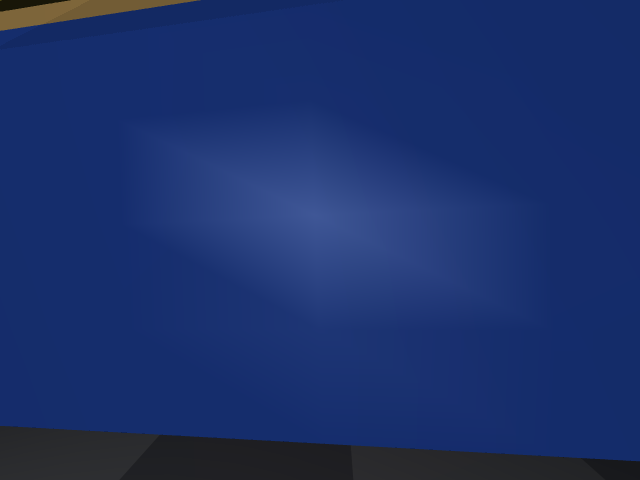
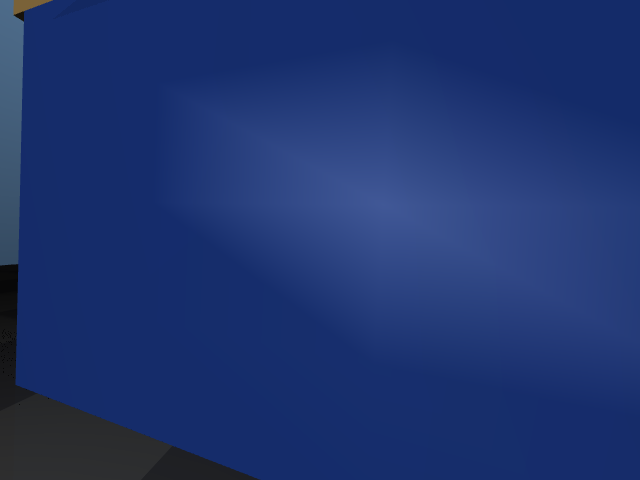
Soft walk-yaw reacquire when the backsplash goes dim (#26)
* Add a yaw-only reacquire when the backsplash goes dim.

If yellow falls below 0.015 while the kitchen is still in frame, vx=0
yaws toward the last bias for up to 2 s. Half-cap forward resumes only
if yellow returns centered. This room run stops instead: end x +1.031 m,
remaining 0.283 m, min up_z 0.930, settled yellow 0. Arrival stays false.
The plant file is untouched.

* Document the reacquire exception on the Prefer FAIL list.

A dim backsplash can take a yaw-only try. The world-x stop is the 1.10 m budget.

* Reacquire with half-cap walk-yaw instead of vx=0.

vx=0 yaw does not change heading on this plant. When the backsplash
goes dim with the kitchen still in frame, keep vel(+0.028, yaw trim)
for at most two short tries, then Prefer FAIL if the blob is lost again.

---------

Changed region(s): [[0.2188, 0.9062, 1.0, 1.0], [0.0, 0.0, 0.3125, 0.9062], [0.8438, 0.4375, 0.875, 0.4688]]

diff --git a/scripts/find_kitchen.py b/scripts/find_kitchen.py
@@ -19,9 +19,15 @@ adds a yaw trim scaled by the bias. Full-cap slices and short slices with
 stand pauses between them are not this path: the first crossed up_z 0.90
 near +0.39 m, and the pauses never got past ~0.1 m. The up_z bar stays
 0.90. The 1.2 s hop stays in --self-test at the full forward cap. The
-world-x budget is 1.10 m, a stop, not a goal pose. Arrival is claimed only when
-the backsplash fills at least half the frame and the torso is within 0.25 m
-of the kitchen geom. Otherwise the summary reports end x and the remaining
+world-x budget is 1.10 m, a stop, not a goal pose. If the yellow fraction
+falls below 0.015 while the kitchen body is still in frame, up to two
+soft walk-yaw tries (vel(+0.028, trim toward the last bias), 2 s each)
+may run. vx=0 yaw does not change heading on this plant, so it is not
+the reacquire. Normal half-cap steering resumes only if yellow returns
+to at least 0.015 and the score is usable. Otherwise that is a Prefer
+FAIL and no further vel. Arrival is claimed only when the backsplash
+fills at least half the frame and the torso is within 0.25 m of the
+kitchen geom. Otherwise the summary reports end x and the remaining
 gap and does not say arrived.
 
 The visible signal under this lighting is the yellow backsplash. The wood
@@ -106,6 +112,12 @@ ARRIVAL_YELLOW_FRAC = 0.50
 ARRIVAL_REMAINING_M = 0.25
 PERCEPT_S = 0.40
 BUDGET_STOP = "burst budget reached; stop"
+# Dim backsplash, kitchen body still in frame. Half-cap walk-yaw toward the
+# last bias. vx=0 yaw does not change heading here, so it is not used.
+# Not a search: two tries, 2 s each, then stop if yellow is still not usable.
+REACQUIRE_S = 2.0
+REACQUIRE_SLICE_S = 0.40
+MAX_REACQUIRE = 2
 # Stand kit_cam measures yellow fraction ~0.039 and bias ~-0.014.
 # Empty floor and a yaw that hides the kitchen measure 0.
 MIN_YELLOW_FRAC = 0.015
@@ -142,6 +154,9 @@ UNKNOWN_LINE = "refused: not a find-kitchen phrase"
 EMPTY_PHRASE_LINE = "refused: empty phrase"
 NOT_IN_FRAME_LINE = "Prefer FAIL: kitchen is not in the kit_cam frame; no motion"
 NO_PIXELS_LINE = "Prefer FAIL: kit_cam pixels do not show the backsplash; no motion"
+REACQUIRE_LOST = (
+    "Prefer FAIL: soft walk-yaw reacquire lost the backsplash; no further vel"
+)
 AMBIGUOUS_LINE = "Prefer FAIL: kitchen blob is ambiguous; no motion"
 BLOCKED_LINE = "Prefer FAIL: backsplash fills the lower center; no forward"
 HONESTY = (
@@ -242,6 +257,7 @@ class Approach:
     arrival: bool
     forward_bursts: int
     yaw_corrections: int
+    reacquires: int
 
 
 def _md5(path: Path) -> str:
@@ -600,6 +616,41 @@ def trim_yaw(bias: float) -> float:
     return yaw
 
 
+def can_reacquire(score: KitchenScore) -> bool:
+    """Dim yellow while the kitchen body is still in frame. Not a split blob."""
+    return (
+        score.kitchen_in_frame
+        and score.decision == "fail"
+        and score.yellow_frac < MIN_YELLOW_FRAC
+        and score.line == NO_PIXELS_LINE
+    )
+
+
+def reacquire_yaw(bias: float) -> float:
+    """Yaw trim toward the last known side. Zero if that side is centered."""
+    return trim_yaw(bias)
+
+
+def reacquire_command(bias: float) -> tuple[float, float]:
+    """Soft walk-yaw. Same half-cap forward as the approach, plus the trim."""
+    return (SOFT_VX, reacquire_yaw(bias))
+
+
+def yellow_usable(score: KitchenScore) -> bool:
+    """Yellow is back at the visible bar and the normal steer can use it."""
+    return (
+        score.kitchen_in_frame
+        and score.yellow_frac >= MIN_YELLOW_FRAC
+        and score.decision in ("forward", "yaw_left", "yaw_right")
+    )
+
+
+def _remember_bias(score: KitchenScore, last_bias: float) -> float:
+    if score.centroid_u is not None:
+        return score.bias
+    return last_bias
+
+
 def correction_command(score: KitchenScore) -> tuple[float, float] | None:
     """Approach slice: forward cap, plus a bias trim when the blob is off center."""
     if score.decision == "fail":
@@ -731,6 +782,7 @@ def _hold_vel(
     stop_when_centered: bool = False,
     progress_x0: float | None = None,
     progress_cap_m: float | None = None,
+    allow_dim: bool = False,
 ) -> str | None:
     """Resend one vel at 10 Hz. Stop early if the kitchen leaves the frame.
 
@@ -767,7 +819,11 @@ def _hold_vel(
             last_look = now
             live = score_frame(session.model, session.data, cam.grab(session.data))
             if live.decision == "fail":
-                return live.line
+                dim = allow_dim and can_reacquire(live)
+                if not dim:
+                    return live.line
+            elif allow_dim and yellow_usable(live):
+                return None
             if stop_when_centered and live.decision == "forward":
                 return None
             if stop_when_centered and (
@@ -890,12 +946,68 @@ def _gap(model: mj.MjModel, data: mj.MjData) -> tuple[float, float]:
     return found
 
 
+def _reacquire(
+    session: steer_walk.SteerSession,
+    cam: KitCam,
+    sent: list[SentVel],
+    score: KitchenScore,
+    last_bias: float,
+    x0: float,
+) -> tuple[KitchenScore, str | None]:
+    """Half-cap walk-yaw toward the last bias until yellow is usable or the budget ends.
+
+    Success resumes the normal approach. A lost blob, a kitchen that leaves
+    the frame, up_z under 0.90, or the end of the 2 s budget is a Prefer FAIL.
+    vx=0 is not used: it does not change heading on this plant.
+    """
+    deadline = float(session.data.time) + REACQUIRE_S
+    while float(session.data.time) < deadline - 1e-9:
+        up_z = session.samples[-1].up_z if session.samples else 1.0
+        if up_z < UP_Z_ABORT:
+            return score, f"Prefer FAIL: up_z {up_z:.3f} during reacquire; stop"
+        if not score.kitchen_in_frame:
+            return score, "Prefer FAIL: kitchen left the frame during reacquire; no further vel"
+        if yellow_usable(score):
+            return score, None
+        if score.decision == "fail" and not can_reacquire(score):
+            return score, score.line
+        bias = score.bias if score.centroid_u is not None else last_bias
+        command = reacquire_command(bias)
+        slice_s = min(REACQUIRE_SLICE_S, deadline - float(session.data.time))
+        if slice_s <= 1e-6:
+            break
+        abort = _hold_vel(
+            session, cam, command[0], command[1], slice_s, sent,
+            stop_when_centered=False,
+            progress_x0=x0,
+            progress_cap_m=PROGRESS_STOP_M,
+            allow_dim=True,
+        )
+        score = score_frame(session.model, session.data, cam.grab(session.data))
+        if yellow_usable(score):
+            return score, None
+        if abort == BUDGET_STOP:
+            return score, abort
+        if abort and (
+            abort.startswith("fault:")
+            or "up_z" in abort
+            or not score.kitchen_in_frame
+        ):
+            return score, abort
+        if abort and score.decision == "fail" and not can_reacquire(score):
+            return score, abort
+    return score, (
+        "Prefer FAIL: walk-yaw reacquire budget exhausted; "
+        "yellow did not return; no further vel"
+    )
+
+
 def run_approach(session: steer_walk.SteerSession, cam: KitCam) -> Approach:
     """Half-cap slices while the backsplash stays valid, with a yaw trim if it drifts.
 
-    The gait stays in move across a slice boundary. A stand between slices
-    resets the velocity slew and does not advance. Stop is the budget, or a
-    Prefer FAIL. up_z under 0.90 stops. That bar is not lowered.
+    A dim yellow with the kitchen still in frame gets a short half-cap walk-yaw.
+    The gait stays in move across a forward slice. Stop is the budget, a failed
+    reacquire, or another Prefer FAIL. up_z under 0.90 stops. That bar is not lowered.
     """
     _hold_stand(session, STAND_S)
     before = cam.grab(session.data)
@@ -907,12 +1019,14 @@ def run_approach(session: steer_walk.SteerSession, cam: KitCam) -> Approach:
     mid_score = stand_score
     forward_bursts = 0
     yaw_corrections = 0
+    reacquires = 0
+    last_bias = stand_score.bias
     note = stand_score.line
     stop_kind: BurstKind = "blob"
     if stand_score.decision == "fail":
         return _approach_result(
             session, cam, before, before, stand_score, stand_score, sent, note,
-            stop_kind, x0, forward_bursts, yaw_corrections, False,
+            stop_kind, x0, forward_bursts, yaw_corrections, False, reacquires,
         )
     while True:
         dx = float(session.data.qpos[0]) - x0
@@ -927,7 +1041,23 @@ def run_approach(session: steer_walk.SteerSession, cam: KitCam) -> Approach:
             remaining_m=remaining,
         )
         if choice.action == "stop":
-            note = choice.line
+            if (
+                choice.kind == "blob"
+                and can_reacquire(score)
+                and reacquires < MAX_REACQUIRE
+            ):
+                reacquires += 1
+                score, fail = _reacquire(session, cam, sent, score, last_bias, x0)
+                last_bias = _remember_bias(score, last_bias)
+                if fail:
+                    note = fail
+                    stop_kind = _abort_kind(fail)
+                    break
+                continue
+            if choice.kind == "blob" and can_reacquire(score) and reacquires >= MAX_REACQUIRE:
+                note = REACQUIRE_LOST
+            else:
+                note = choice.line
             stop_kind = choice.kind
             break
         command = correction_command(score)
@@ -948,12 +1078,25 @@ def run_approach(session: steer_walk.SteerSession, cam: KitCam) -> Approach:
             progress_cap_m=PROGRESS_STOP_M,
         )
         score = score_frame(session.model, session.data, cam.grab(session.data))
+        last_bias = _remember_bias(score, last_bias)
         moved = float(session.data.qpos[0]) - x0
         if mid_image is None and moved >= (PROGRESS_STOP_M * 0.5):
             mid_image = cam.grab(session.data)
             mid_score = score
+        if abort and can_reacquire(score) and reacquires < MAX_REACQUIRE:
+            reacquires += 1
+            score, fail = _reacquire(session, cam, sent, score, last_bias, x0)
+            last_bias = _remember_bias(score, last_bias)
+            if fail:
+                note = fail
+                stop_kind = _abort_kind(fail)
+                break
+            continue
         if abort:
-            note = abort
+            if can_reacquire(score) and reacquires >= MAX_REACQUIRE:
+                note = REACQUIRE_LOST
+            else:
+                note = abort
             stop_kind = _abort_kind(abort)
             break
     if mid_image is None and (forward_bursts + yaw_corrections) > 1:
@@ -965,6 +1108,7 @@ def run_approach(session: steer_walk.SteerSession, cam: KitCam) -> Approach:
     return _approach_result(
         session, cam, before, mid_image, stand_score, mid_score, sent, note,
         stop_kind, x0, forward_bursts, yaw_corrections, stop_kind == "arrival",
+        reacquires,
     )
 
 
@@ -982,6 +1126,7 @@ def _approach_result(
     forward_bursts: int,
     yaw_corrections: int,
     arrival_candidate: bool,
+    reacquires: int,
 ) -> Approach:
     session.bus.stop(float(session.data.time))
     _hold_stand(session, SETTLE_S)
@@ -1031,6 +1176,7 @@ def _approach_result(
         arrival=arrival,
         forward_bursts=forward_bursts,
         yaw_corrections=yaw_corrections,
+        reacquires=reacquires,
     )
 
 
@@ -1187,6 +1333,30 @@ def test_approach_policy() -> list[str]:
         forward_bursts=1, remaining_m=1.00,
     )
     _expect(blob.action == "stop" and blob.kind == "blob", f"blob {blob}", failures)
+    dim = KitchenScore(
+        decision="fail",
+        reason="backsplash fraction below the visible bar",
+        line=NO_PIXELS_LINE,
+        needs_map=False,
+        bias=-0.80,
+        yellow_frac=0.004,
+        centroid_u=35.0,
+        centroid_v=40.0,
+        kitchen_in_frame=True,
+    )
+    _expect(can_reacquire(dim), "dim in-frame blob should reacquire", failures)
+    _expect(not can_reacquire(lost), "empty fail is not a reacquire", failures)
+    _expect(reacquire_yaw(-0.80) > 0.0, "left bias yaws left", failures)
+    _expect(reacquire_yaw(0.80) < 0.0, "right bias yaws right", failures)
+    _expect(reacquire_yaw(0.0) == 0.0, "centered dim has no yaw side", failures)
+    left_cmd = reacquire_command(-0.80)
+    _expect(
+        abs(left_cmd[0] - SOFT_VX) < 1e-9 and left_cmd[1] > 0.0,
+        f"reacquire is half-cap walk-yaw {left_cmd}",
+        failures,
+    )
+    _expect(yellow_usable(centered), "centered yellow is usable", failures)
+    _expect(not yellow_usable(dim), "dim yellow is not usable", failures)
     # Half the frame but still far: not arrival, keep steering.
     far_fill = approach_choice(
         full, dx_m=0.20, up_z=0.97, yaw_corrections=0,
@@ -1552,6 +1722,7 @@ def run_phrase(phrase: str, scene: SceneName) -> int:
         "note": approach.note,
         "forward_bursts": approach.forward_bursts,
         "yaw_corrections": approach.yaw_corrections,
+        "reacquires": approach.reacquires,
         "x0_m": approach.x0_m,
         "end_x_m": approach.end_x_m,
         "end_y_m": approach.end_y_m,
@@ -1589,6 +1760,7 @@ def run_phrase(phrase: str, scene: SceneName) -> int:
     print(
         f"[find] stop {approach.stop_kind} bursts {approach.forward_bursts} "
         f"yaw_corrections {approach.yaw_corrections} "
+        f"reacquires {approach.reacquires} "
         f"end mode {approach.end_mode} min_up_z {approach.min_up_z:.3f} "
         f"dx {approach.dx_m:+.3f} m end x {approach.end_x_m:+.3f} m "
         f"remaining {approach.remaining_m:.3f} m "

diff --git a/docs/FIND_KITCHEN.md b/docs/FIND_KITCHEN.md
@@ -40,28 +40,31 @@ The `up_z` Prefer FAIL bar stays **0.90**. It is not lowered. A full-cap slice r
 
 Half the forward cap, with no stand between slices, is the duty that stayed upright. At a 0.60 m world-x budget that duty stopped on the budget: end x +0.610 m, Δx +0.608 m, min up_z 0.989, remaining 0.705 m, yellow fraction 0.131, arrival false.
 
-The world-x budget on this draft is **1.10 m**. That is still a stop, not a counter pose. The `up_z` bar, the half-cap command, and both arrival bars are unchanged. The 1.10 m stop was not reached.
+The world-x budget on this draft is **1.10 m**. That is still a stop, not a counter pose. The `up_z` bar, the half-cap command, and both arrival bars are unchanged.
+
+Without a reacquire, the same half-cap walk stopped at end x +0.938 m when the yellow fraction fell to 0.004 with the kitchen body still in frame (remaining 0.377 m, min up_z 0.981). `vx = 0` yaw does not change heading on this plant, so a yaw-only reacquire is not used. This draft instead keeps half-cap `vel(+0.028, yaw trim)` toward the last bias for at most two tries of 2.0 s. The normal approach resumes only if yellow returns to at least 0.015 and the score is usable (`forward`, `yaw_left`, or `yaw_right`). A blob that stays lost, a kitchen that leaves the frame, `up_z` under 0.90, or the end of that budget is Prefer FAIL and sends no further `vel`.
 
 Measured phrase, "go to the kitchen", room scene, after stand:
 
 | | |
 |--|--|
-| Stop | Prefer FAIL: yellow fraction fell to 0.004, below 0.015. The kitchen body still projects into the frame. The backsplash does not. No further `vel`. |
-| End x | **+0.938 m** (start x +0.002 m, Δx **+0.936 m**) |
-| End y, yaw | +0.014 m, +0.083 rad |
-| min up_z | **0.981** (bar 0.90, not crossed) |
-| Remaining | **0.377 m** from the torso to the kitchen geom (near face x = 1.315 m) |
-| Final blob | yellow fraction **0.004**, bias −0.889, left edge |
+| Stop | Prefer FAIL, `stop_kind` blob. Two soft walk-yaw tries. Yellow came back above 0.015 and the normal half-cap loop resumed, then the blob was lost again. The two-try budget blocked a third try. No further `vel`. |
+| End x | **+1.024 m** (start x +0.002 m, Δx **+1.022 m**) |
+| End y, yaw | +0.052 m, +0.229 rad |
+| min up_z | **0.980** (bar 0.90, not crossed) |
+| Remaining | **0.291 m** from the torso to the kitchen geom (near face x = 1.315 m) |
+| Final blob | yellow fraction **0.000** on the settled frame. Kitchen body still in frame. |
+| Reacquires | 2. Every phrase command was `vx = +0.028` (yaw trim up to +0.250). `vx = 0` was not sent. |
 | Arrival | **false** |
 
-110 centered slices and 38 yaw trims were sent, all at `vx = +0.028`. Near the end the trim reached the yaw cap and the backsplash slid off the left of the frame. The finder did not keep turning to search. The mid still is the first frame after Δx crossed 0.55 m (yellow 0.105, bias −0.078). 0.004 of the frame is not half, and 0.377 m is still outside the 0.25 m gap.
+111 centered slices and 50 walking yaw trims were sent at `vx = +0.028`, including the slices after yellow briefly returned. The mid still is the first frame after Δx crossed 0.55 m (yellow 0.105, bias −0.078). 0.000 of the frame is not half, and 0.291 m is still outside the 0.25 m gap. Soft walk-yaw did not keep the backsplash.
 
 ## What would count as arrival
 
 Both bars, on the settled stop frame:
 
-1. Yellow fraction ≥ 0.50. Half the frame is "most of the frame". Stand is 0.039 and this stop is 0.004, so the counter does not fill the frame.
-2. Torso-to-kitchen horizontal gap ≤ 0.25 m. That is contact range for this torso, not a room crossing. 0.377 m is still outside that bar.
+1. Yellow fraction ≥ 0.50. Half the frame is "most of the frame". Stand is 0.039 and this stop is 0.000, so the counter does not fill the frame.
+2. Torso-to-kitchen horizontal gap ≤ 0.25 m. That is contact range for this torso, not a room crossing. 0.291 m is still outside that bar.
 
 Either bar alone is not arrival. A stop inside 0.25 m with the backsplash still small would be Prefer FAIL (`close`), not arrival. The gap is read from the kitchen geom boxes so the summary can state the remaining distance. It does not choose left versus right and it is not a waypoint.
 
@@ -78,11 +81,11 @@ No further `vel` is sent when:
 - the phrase is bathroom, or any other room
 - the loaded scene is the empty walk plant
 - the kitchen body is outside the frame (including turned away)
-- the backsplash fraction is below 0.015
+- the backsplash fraction is below 0.015 and the soft walk-yaw reacquire does not keep it usable (two tries of `vel(+0.028, yaw trim)`, then stop)
 - the yellow is split across the left and right of the frame
 - the centroid does not sit on the kitchen body
 - `up_z` drops below 0.90
-- the 0.60 m budget is reached, or the slice caps are exhausted
+- the 1.10 m budget is reached, or the slice caps are exhausted
 - the stop frame does not meet both arrival bars
 
 ```bash

diff --git a/README.md b/README.md
@@ -98,7 +98,7 @@ Forward clamp is **+0.056 m/s**, reverse **−0.032 m/s**, yaw **±0.25 rad/s**.
 
 `mujoco/room_kitchen.xml` includes the frozen walk plant and adds a kitchen counter plus a table and a chair (`kitchen`, `table`, `chair`). `kit_cam` is unchanged: one camera, `head_tilt_link`, `0.050 0.019 0.007`. The floor is still the plant plane. Those body names are labels for a later vision step. They are not a navigation map, and this scene is not handed to a planner. `scripts/steer_walk.py` still loads only the frozen plant by default, so stand / forward / reverse / left / right / left-then-right stay on the empty checkerboard. See `docs/KIT_CAM_ROOM.md`.
 
-"Go to the kitchen" is a Prefer FAIL finder in `scripts/find_kitchen.py`. It runs only when `room_kitchen.xml` is loaded. From a centered backsplash it re-scores `kit_cam` every 0.40 s and sends `vel(+0.028, yaw)` — half the forward cap — on the same bus. Yaw is 0 while the blob is centered, and a bias trim inside ±0.25 when it drifts. The `up_z` 0.90 stop is unchanged. The world-x budget is 1.10 m. This room run stopped earlier, when the yellow fraction fell to 0.004: end x **+0.938 m** (Δx **+0.936 m**), min up_z **0.981**, **0.377 m** still to the kitchen face. That is not arrival. Arrival would require the backsplash to fill at least half the frame and the torso to be within 0.25 m of the kitchen geom. The 1.2 s hop remains a self-test at the full cap (end x +0.036 m). Bathroom and the empty plant still send no velocity. See `docs/FIND_KITCHEN.md`.
+"Go to the kitchen" is a Prefer FAIL finder in `scripts/find_kitchen.py`. It runs only when `room_kitchen.xml` is loaded. From a centered backsplash it re-scores `kit_cam` every 0.40 s and sends `vel(+0.028, yaw)` — half the forward cap — on the same bus. Yaw is 0 while the blob is centered, and a bias trim inside ±0.25 when it drifts. The `up_z` 0.90 stop is unchanged. The world-x budget is 1.10 m. If yellow falls below 0.015 while the kitchen is still in frame, a soft walk-yaw reacquire (`vel(+0.028, yaw trim)`, at most two tries of 2 s) may run. `vx = 0` yaw does not change heading on this plant and is not used. This room run used both tries. Yellow came back enough to resume, then the blob was lost again. End x **+1.024 m** (Δx **+1.022 m**), min up_z **0.980**, remaining **0.291 m**, settled yellow **0.000**. That is not arrival. Arrival would require the backsplash to fill at least half the frame and the torso to be within 0.25 m of the kitchen geom. The 1.2 s hop remains a self-test at the full cap (end x +0.036 m). Bathroom and the empty plant still send no velocity. See `docs/FIND_KITCHEN.md`.
 
 ```bash
 MUJOCO_GL=osmesa python scripts/render_kit_cam_room.py

diff --git a/docs/KIT_CAM_ROOM.md b/docs/KIT_CAM_ROOM.md
@@ -20,4 +20,4 @@ That stands the robot with the same quiet pose as `scripts/steer_walk.py`, rende
 
 `scripts/steer_walk.py` still loads only the frozen plant by default. Voice can already steer stand / forward / reverse / left / right / left-then-right on that empty checkerboard.
 
-`scripts/find_kitchen.py` is the Prefer FAIL finder for this room. "Go to the kitchen" and "go to kitchen" call it only when `room_kitchen.xml` is loaded. It scores the current `kit_cam` frame (yellow backsplash blob, plus a named-body check that the blob sits on `kitchen` and not on `table` or `chair`). A centered blob gets a 0.40 s slice at half the forward cap (`vx = +0.028`). If the blob drifts, the next slice keeps that vx and adds a yaw trim scaled by the bias. Bathroom, the empty plant, a kitchen that is not in frame, a split blob, or `up_z` under 0.90 send no further `vel`. The torso-to-kitchen distance is reported and is one arrival bar, not a path. The world-x budget is 1.10 m. The measured room run stopped earlier, when the yellow fraction fell to 0.004 (Δx +0.936 m, min up_z 0.981, 0.377 m still to the counter) and did not claim arrival. See `docs/FIND_KITCHEN.md`.
+`scripts/find_kitchen.py` is the Prefer FAIL finder for this room. "Go to the kitchen" and "go to kitchen" call it only when `room_kitchen.xml` is loaded. It scores the current `kit_cam` frame (yellow backsplash blob, plus a named-body check that the blob sits on `kitchen` and not on `table` or `chair`). A centered blob gets a 0.40 s slice at half the forward cap (`vx = +0.028`). If the blob drifts, the next slice keeps that vx and adds a yaw trim scaled by the bias. Bathroom, the empty plant, a kitchen that is not in frame, a split blob, or `up_z` under 0.90 send no further `vel`. The torso-to-kitchen distance is reported and is one arrival bar, not a path. The world-x budget is 1.10 m. If the yellow fraction falls below 0.015 while the kitchen body is still in frame, a soft walk-yaw reacquire (`vel(+0.028, yaw trim)`, at most two tries of 2 s) may run. `vx = 0` yaw does not change heading on this plant, so it is not the reacquire. The measured room run used both tries, yellow returned briefly, then the blob was lost again: settled yellow 0.000, end x +1.024 m, Δx +1.022 m, min up_z 0.980, 0.291 m still to the counter. It did not claim arrival. See `docs/FIND_KITCHEN.md`.
